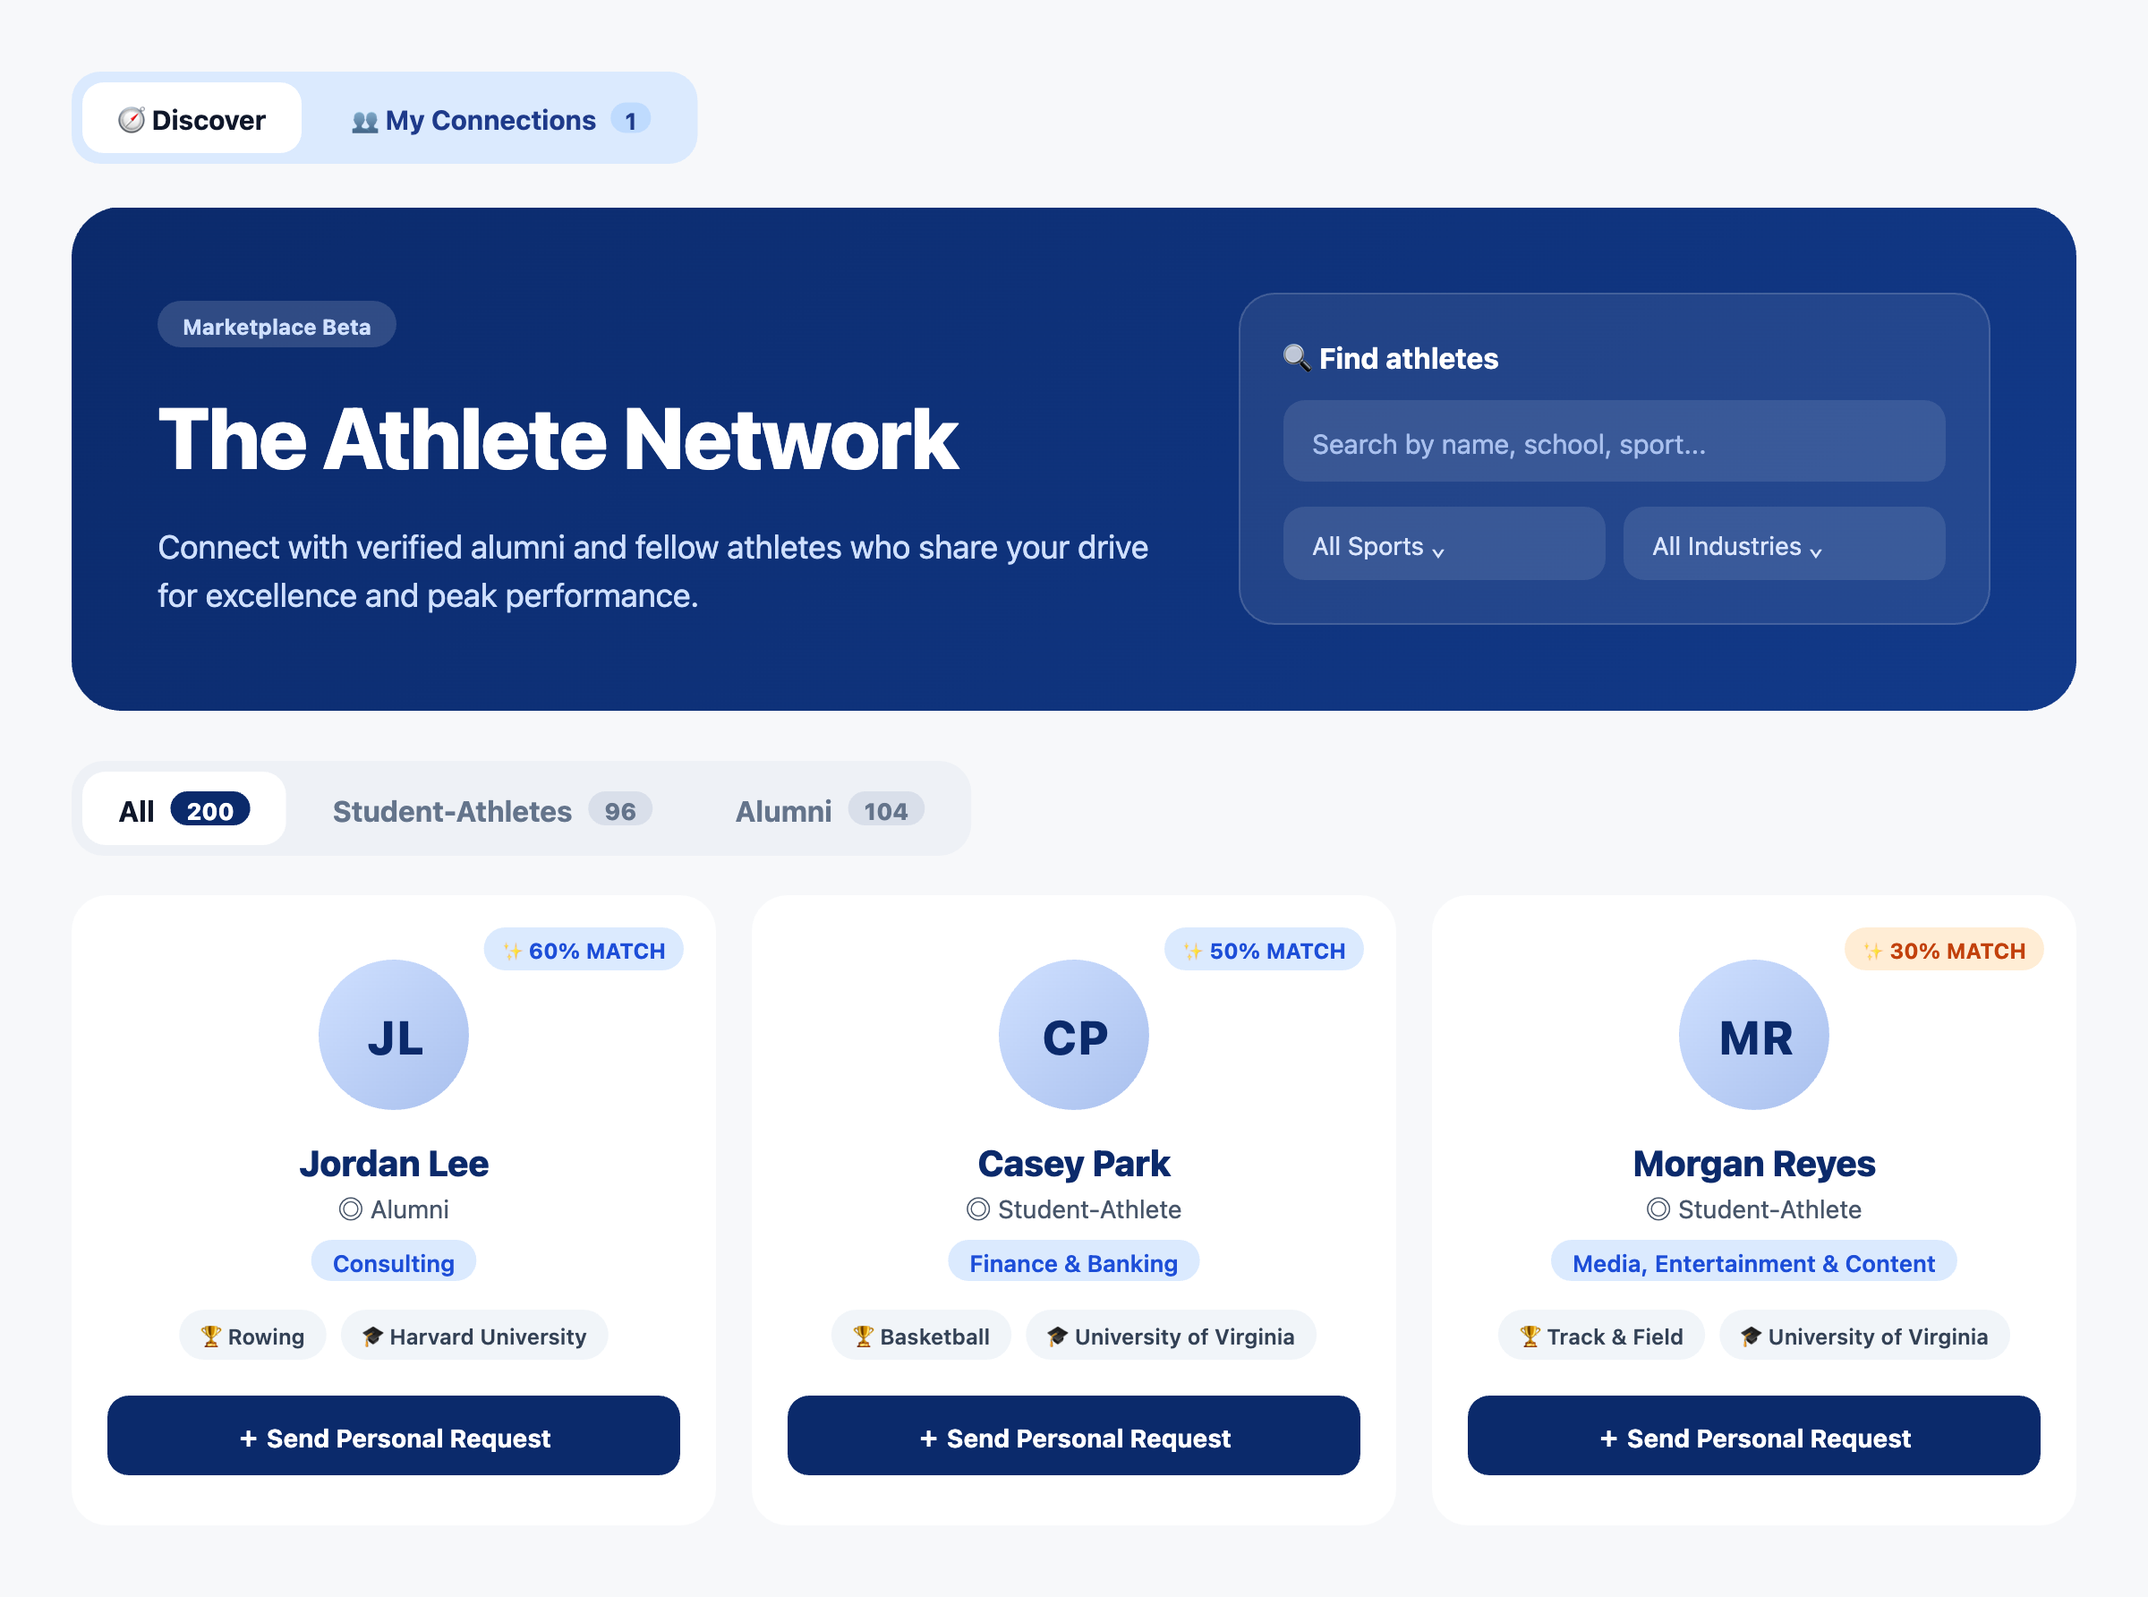
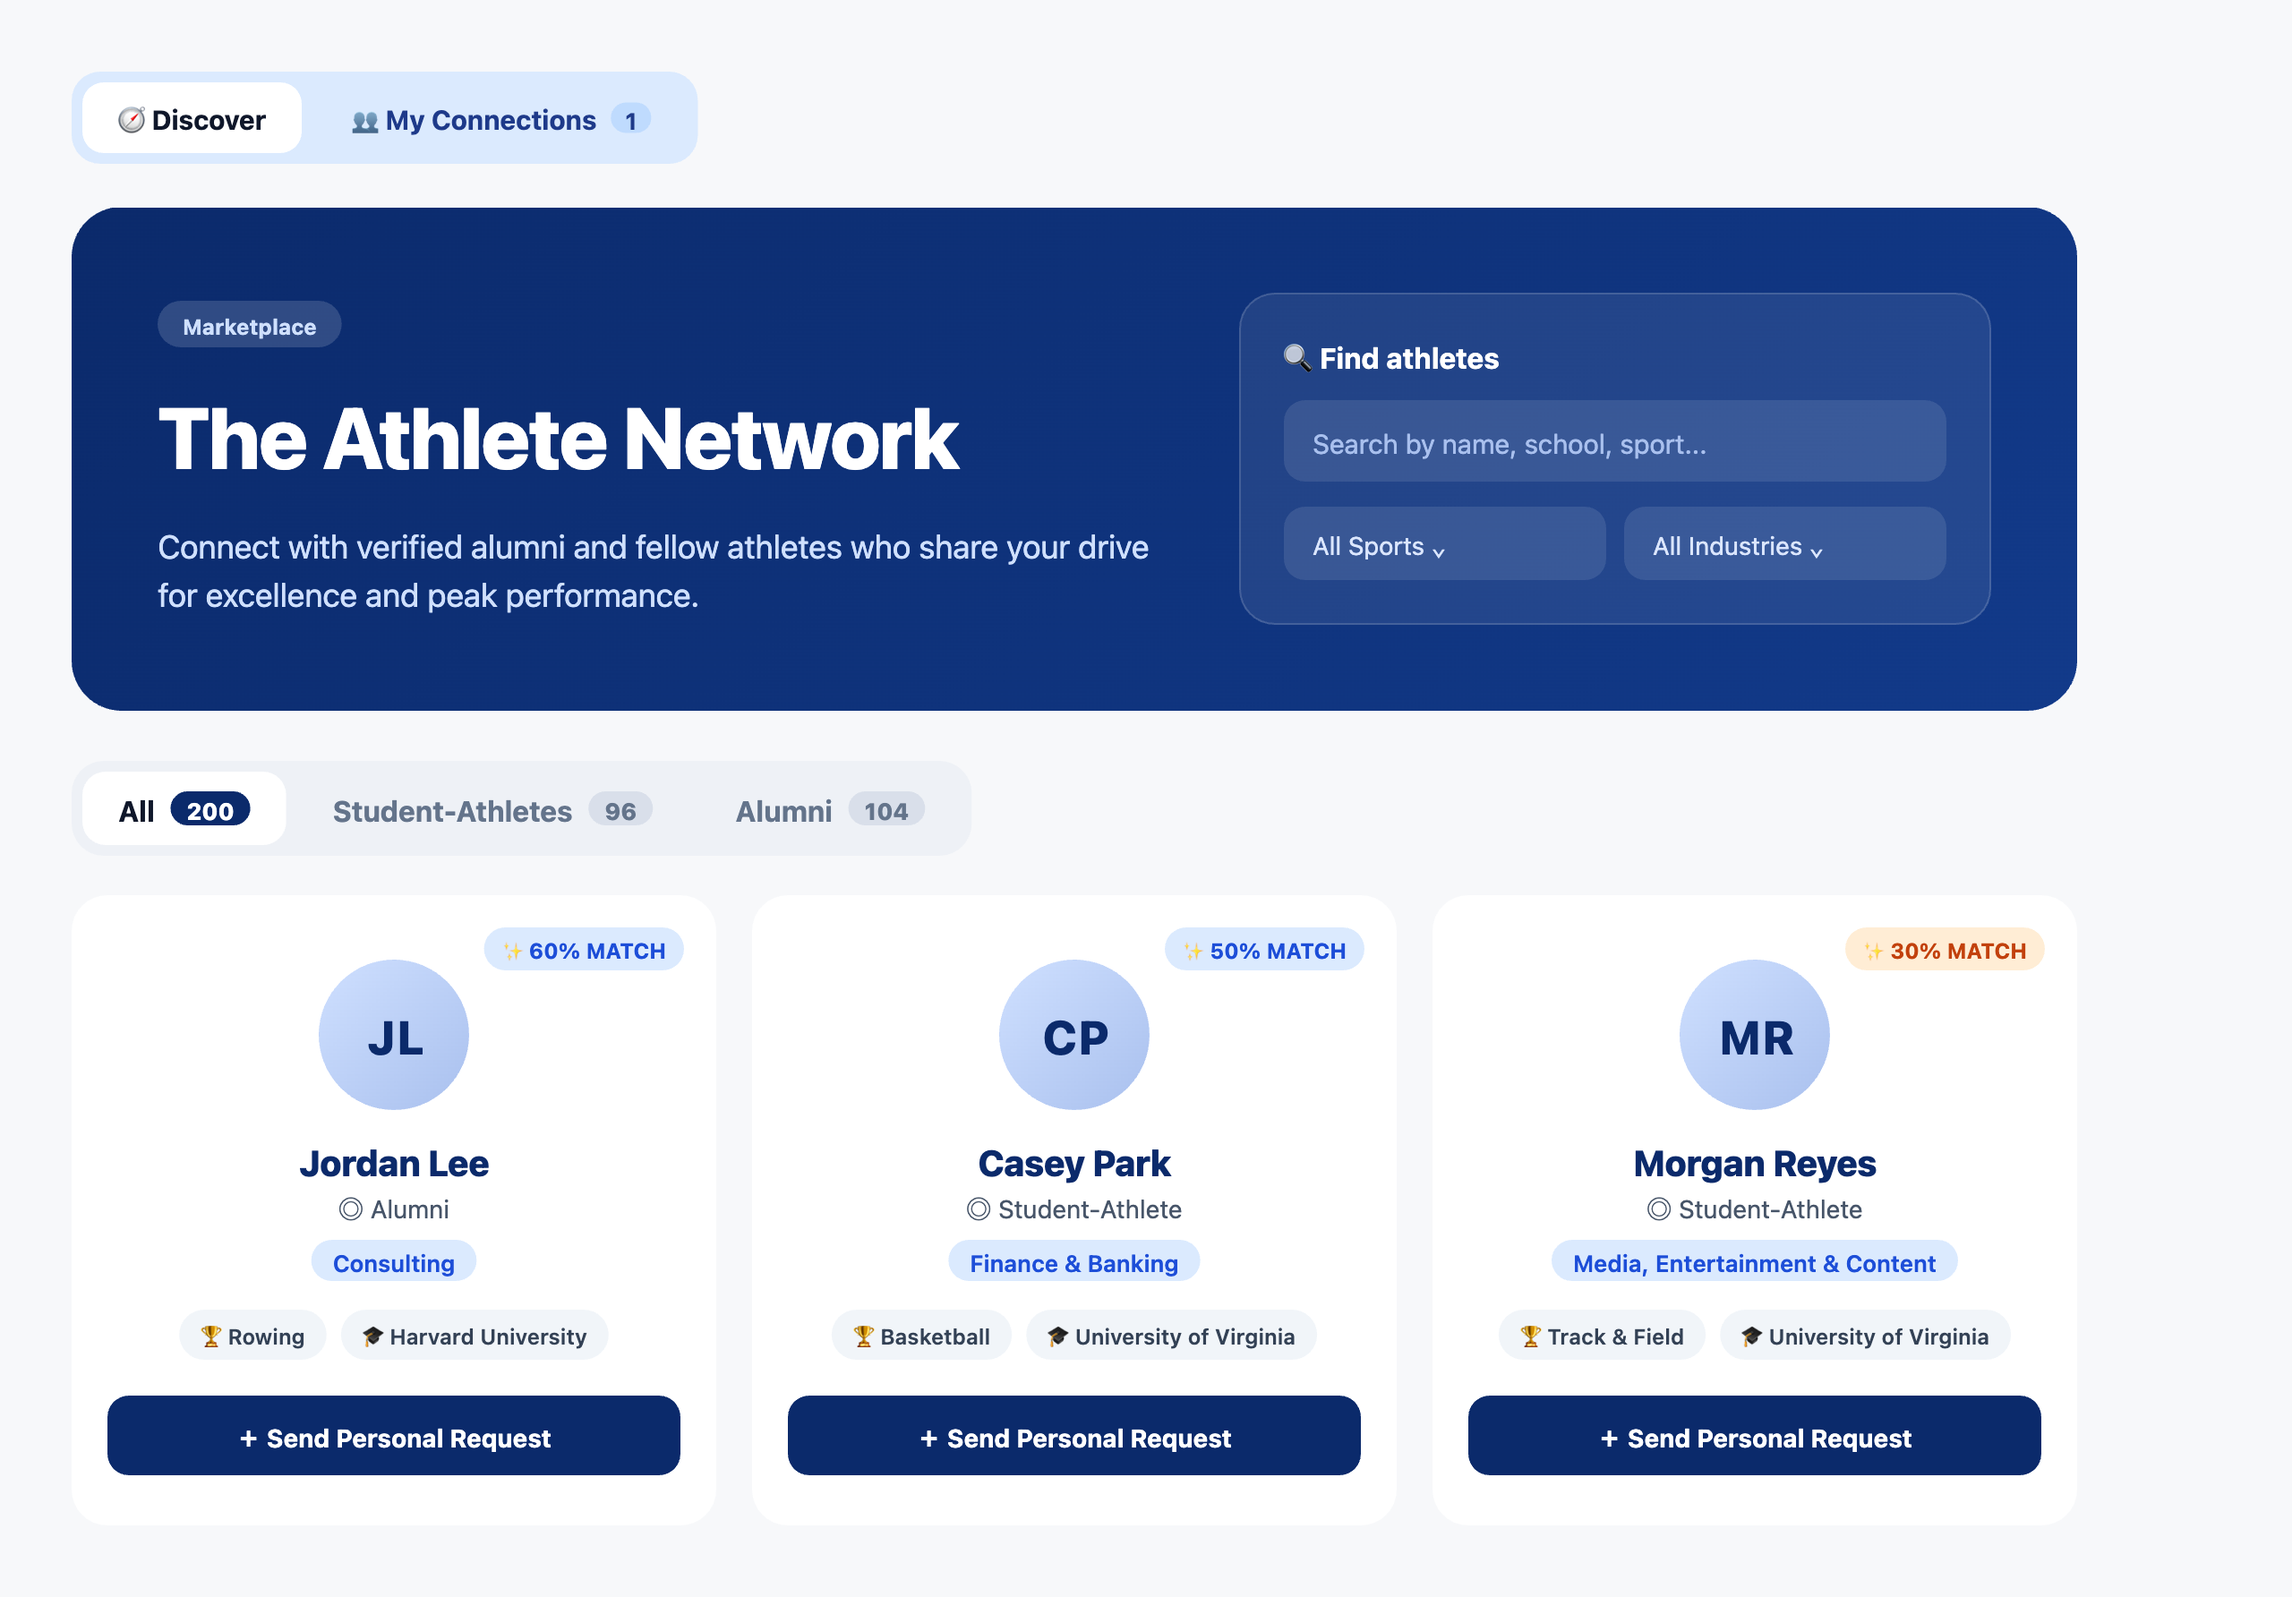
Remove "beta" labels from the product UI
- Drop the beta chip from the signup, login, onboarding, and dashboard sidebar logos
- Sidebar version v0.1.0-beta -> v0.1.0
- Network hero badge "Marketplace Beta" -> "Marketplace" (and the matching landing image)

diff --git a/src/components/dashboard-sidebar.tsx b/src/components/dashboard-sidebar.tsx
@@ -100,7 +100,6 @@ export function DashboardSidebar({ className }: { className?: string }) {
             <div className="p-6">
                 <Link href="/" className="flex items-center gap-2">
                     <img src="/relay-logo.png" alt="Relay" className="h-8 w-auto" />
-                    <span className="text-[10px] font-semibold uppercase tracking-wider text-muted-foreground/70 bg-muted/50 px-1.5 py-0.5 rounded-md self-end mb-0.5">beta</span>
                 </Link>
             </div>
 
@@ -199,7 +198,7 @@ export function DashboardSidebar({ className }: { className?: string }) {
                     onClick={handleVersionTap}
                     className="text-[10px] text-muted-foreground/40 text-center mt-3 cursor-default select-none"
                 >
-                    v0.1.0-beta
+                    v0.1.0
                 </p>
             </div>
         </div>

diff --git a/src/app/onboarding/layout.tsx b/src/app/onboarding/layout.tsx
@@ -12,7 +12,6 @@ export default function OnboardingLayout({
         <div className="container flex h-full items-center px-4 md:px-6">
           <Link href="/" className="flex items-center gap-2 group transition-opacity hover:opacity-90">
             <img src="/relay-logo.png" alt="Relay" className="h-8 w-auto" />
-            <span className="text-[10px] font-semibold uppercase tracking-wider text-muted-foreground/70 bg-muted/50 px-1.5 py-0.5 rounded-md self-end mb-0.5">beta</span>
           </Link>
           <div className="ml-auto flex items-center gap-4">
             <span className="text-xs font-medium text-muted-foreground uppercase tracking-widest hidden sm:block">

diff --git a/src/app/(auth)/login/page.tsx b/src/app/(auth)/login/page.tsx
@@ -7,9 +7,8 @@ export default async function LoginPage({ searchParams }: { searchParams: Promis
 
     return (
         <AuthShell>
-            <div className="flex items-center justify-center gap-2.5 mb-5">
+            <div className="flex items-center justify-center mb-5">
                 <img src="/relay-logo.png" alt="Relay" className="h-8 w-auto brightness-0 invert" />
-                <span className="text-[10px] font-semibold uppercase tracking-wider text-white/50 bg-white/10 px-1.5 py-0.5 rounded-md self-end mb-1">beta</span>
             </div>
 
             <div className="text-center mb-6">

diff --git a/src/app/signup/page.tsx b/src/app/signup/page.tsx
@@ -7,9 +7,8 @@ export default async function SignupPage({ searchParams }: { searchParams: Promi
 
     return (
         <AuthShell>
-            <div className="flex items-center justify-center gap-2.5 mb-5">
+            <div className="flex items-center justify-center mb-5">
                 <img src="/relay-logo.png" alt="Relay" className="h-8 w-auto brightness-0 invert" />
-                <span className="text-[10px] font-semibold uppercase tracking-wider text-white/50 bg-white/10 px-1.5 py-0.5 rounded-md self-end mb-1">beta</span>
             </div>
 
             <div className="text-center mb-6">

diff --git a/src/app/(dashboard)/network/network-client.tsx b/src/app/(dashboard)/network/network-client.tsx
@@ -257,7 +257,7 @@ export default function NetworkClient({
                             variant="outline"
                             className="border-secondary/30 bg-secondary/10 text-secondary backdrop-blur-sm px-4 py-1"
                         >
-                            Marketplace Beta
+                            Marketplace
                         </Badge>
                         <h1 className="text-4xl md:text-5xl font-bold tracking-tight">
                             The Athlete Network
